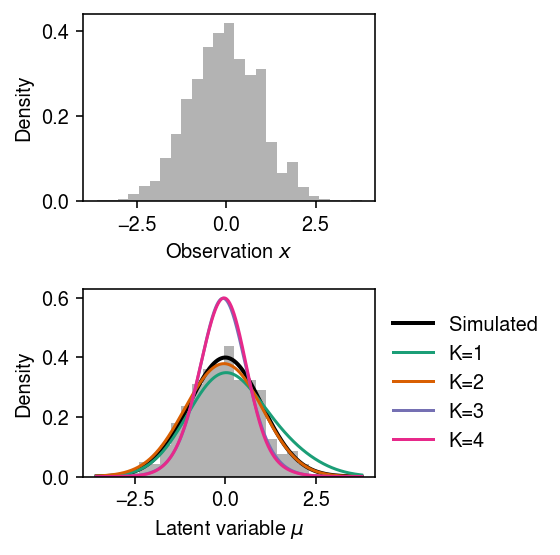
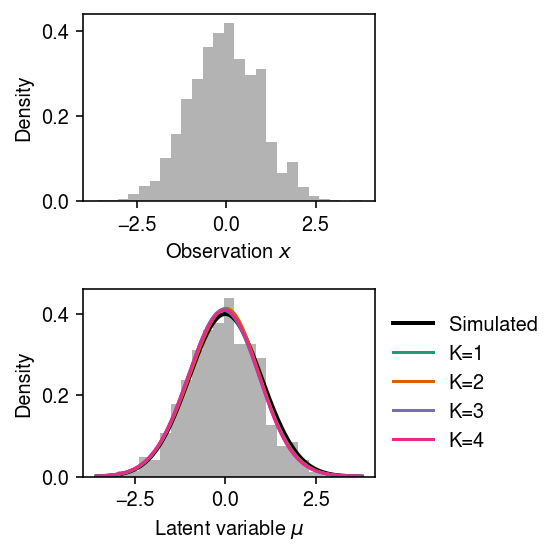
Fix EBNM-NF

diff --git a/docs/flows.html b/docs/flows.html
@@ -1,7 +1,7 @@
 <!DOCTYPE html>
 <html lang="en">
 <head>
-<!-- 2021-02-05 Fri 12:39 -->
+<!-- 2021-02-05 Fri 20:53 -->
 <meta charset="utf-8">
 <meta name="viewport" content="width=device-width, initial-scale=1">
 <title>Normalizing flows for EBPM</title>
@@ -272,6 +272,7 @@ for the JavaScript code in this tag.
 <li><a href="#org0dd86e4">Density estimation sanity check</a></li>
 <li><a href="#org2570b5c">EBNM via VBEM sanity check</a></li>
 <li><a href="#orgb9dcf4c">EBNM via flows sanity check</a></li>
+<li><a href="#orge00a64a">EBNM example</a></li>
 <li><a href="#orgd0277f9">Example of Empirical Bayes Poisson Means</a></li>
 </ul>
 </li>
@@ -613,15 +614,15 @@ discretizing \(\hat{g}\) and taking weighted sums.
   <span class="org-keyword">def</span> <span class="org-function-name">forward</span>(<span class="org-keyword">self</span>, x, n_samples):
     <span class="org-variable-name">q0</span> = torch.distributions.Normal(
       loc=x / (1 + <span class="org-keyword">self</span>.scale ** 2),
-      scale=torch.sqrt(1 / (1 + <span class="org-keyword">self</span>.scale ** 2)))
-    <span class="org-variable-name">u</span> = q0.rsample([1]).squeeze(-1)
-    <span class="org-variable-name">z</span>, <span class="org-variable-name">log_det_q</span> = <span class="org-keyword">self</span>.qz.forward(u.T)
+      scale=torch.sqrt(1 / (1 + 1 / <span class="org-keyword">self</span>.scale ** 2)))
+    <span class="org-variable-name">u</span> = q0.rsample(n_samples)
+    <span class="org-variable-name">z</span>, <span class="org-variable-name">log_det_q</span> = <span class="org-keyword">self</span>.qz.forward(u)
     <span class="org-variable-name">w</span>, <span class="org-variable-name">log_det_p</span> = <span class="org-keyword">self</span>.pz.forward(z)
     <span class="org-comment-delimiter"># </span><span class="org-comment">Important: qz is forward transforms, so we need to invert the sign of</span>
     <span class="org-comment-delimiter"># </span><span class="org-comment">log_det_q</span>
     <span class="org-variable-name">elbo</span> = (torch.distributions.Normal(z, <span class="org-keyword">self</span>.scale).log_prob(x)
             + <span class="org-keyword">self</span>.p0.log_prob(w) + log_det_p
-            - (q0.log_prob(u.T) - log_det_q)).<span class="org-builtin">sum</span>()
+            - (q0.log_prob(u) - log_det_q)).mean(dim=0).<span class="org-builtin">sum</span>()
     <span class="org-keyword">assert</span> elbo &lt;= 0
     <span class="org-keyword">return</span> -elbo
 
@@ -1090,127 +1091,50 @@ fig.tight_layout()
 <p><img src="figure/flows.org/ebnm-ex.png" alt="ebnm-ex.png">
 </p>
 </div>
+</div>
+</div>
 
+<div id="outline-container-orge00a64a" class="outline-3">
+<h3 id="orge00a64a">EBNM example</h3>
+<div class="outline-text-3" id="text-orge00a64a">
 <p>
-Plot the approximate posterior mean against the true posterior mean.
+Draw observations from a scale mixture of Gaussians prior.
 </p>
 
 <div class="org-src-container">
-<pre class="src src-ipython"><span class="org-variable-name">cm</span> = plt.get_cmap(<span class="org-string">'Dark2'</span>)
-plt.clf()
-plt.gcf().set_size_inches(2.5, 2.5)
-<span class="org-variable-name">q0</span> = st.norm(x.reshape(-1, 1) / (1 + s ** 2), np.sqrt(1 / (1 + 1 / s ** 2)))
-<span class="org-keyword">for</span> k, m <span class="org-keyword">in</span> <span class="org-builtin">enumerate</span>(models):
-  <span class="org-keyword">with</span> torch.no_grad():
-    <span class="org-variable-name">samples</span> = np.stack([m.qz.forward(torch.tensor(q0.rvs(), dtype=torch.<span class="org-builtin">float</span>))[0].numpy() <span class="org-keyword">for</span> _ <span class="org-keyword">in</span> <span class="org-builtin">range</span>(100)]).squeeze()
-    <span class="org-variable-name">muhat</span> = samples.mean(axis=0)
-  plt.scatter(q0.mean().ravel(), muhat, s=1, c=np.array(cm(k)).reshape(1, -1), label=f<span class="org-string">'K = {k+1}'</span>)
-<span class="org-variable-name">l</span> = plt.legend(frameon=<span class="org-constant">False</span>, handletextpad=0, markerscale=4)
-<span class="org-variable-name">lim</span> = [mu.<span class="org-builtin">min</span>(), mu.<span class="org-builtin">max</span>()]
-plt.plot(lim, lim, lw=1, ls=<span class="org-string">':'</span>, c=<span class="org-string">'r'</span>)
-plt.xlim(lim)
-plt.ylim(lim)
-plt.xlabel(<span class="org-string">'Exact posterior mean'</span>)
-plt.ylabel(<span class="org-string">'Approximate posterior mean'</span>)
-plt.tight_layout()
+<pre class="src src-ipython"><span class="org-variable-name">rng</span> = np.random.default_rng(1)
+<span class="org-variable-name">n</span> = 1000
+<span class="org-variable-name">s</span> = 0.05
+<span class="org-variable-name">pi</span> = np.array([0.3, 0.7])
+<span class="org-variable-name">scale</span> = np.array([0.1, 0.4])
+<span class="org-variable-name">z</span> = rng.choice(a=scale.shape[0], p=pi, size=n)
+<span class="org-variable-name">mu</span> = rng.normal(scale=scale[z], size=n)
+<span class="org-variable-name">x</span> = rng.normal(loc=mu, scale=s)
 </pre>
 </div>
 
-
-<div class="figure">
-<p><img src="figure/flows.org/ebnm-q.png" alt="ebnm-q.png">
-</p>
-</div>
-
 <p>
-Compare samples from the approximate posterior, holding \(K=2\), for the
-largest observation against the true posterior.
+Fit the model for different choices of \(K\).
 </p>
 
 <div class="org-src-container">
-<pre class="src src-ipython">plt.clf()
-plt.gcf().set_size_inches(2.5, 2.5)
-<span class="org-variable-name">idx</span> = np.argmax(mu)
-<span class="org-variable-name">q0</span> = st.norm(x[idx] / (1 + s ** 2), np.sqrt(1 / (1 + 1 / s ** 2)))
-<span class="org-variable-name">u</span> = q0.rvs(size=(500, 1))
-<span class="org-keyword">with</span> torch.no_grad():
-  <span class="org-variable-name">samples</span> = models[1].qz.forward(torch.tensor(u, dtype=torch.<span class="org-builtin">float</span>))[0].numpy()
-plt.hist(samples, bins=3, density=<span class="org-constant">True</span>, color=<span class="org-string">'0.8'</span>)
-<span class="org-variable-name">grid</span> = np.linspace(2, 4, 1000)
-plt.plot(grid, q0.pdf(grid), lw=2, c=<span class="org-string">'k'</span>)
-plt.xlabel(<span class="org-string">'Latent variable $\mu$'</span>)
-plt.ylabel(<span class="org-string">'Posterior density'</span>)
-plt.tight_layout()
-</pre>
-</div>
-
-
-<div class="figure">
-<p><img src="figure/flows.org/ebnm-q-max.png" alt="ebnm-q-max.png">
-</p>
-</div>
-
-<p>
-Look at different random initializations for \(K=4\).
-</p>
-
-<div class="org-src-container">
-<pre class="src src-ipython"><span class="org-variable-name">lr</span> = 1e-2
-<span class="org-variable-name">n_epochs</span> = 8000
-<span class="org-variable-name">models</span> = []
-<span class="org-keyword">for</span> run <span class="org-keyword">in</span> <span class="org-builtin">range</span>(5):
-  torch.manual_seed(run)
-  models.append(EBNM(K=4, scale=torch.tensor(s))
-                .fit(torch.tensor(x.reshape(-1, 1), dtype=torch.<span class="org-builtin">float</span>),
-                     n_epochs=n_epochs,
-                     lr=lr))
-</pre>
-</div>
-
-<div class="org-src-container">
-<pre class="src src-ipython"><span class="org-variable-name">cm</span> = plt.get_cmap(<span class="org-string">'Dark2'</span>)
-plt.clf()
-<span class="org-variable-name">fig</span>, <span class="org-variable-name">ax</span> = plt.subplots(2, 1)
-fig.set_size_inches(4, 4)
-ax[0].hist(x, bins=25, color=<span class="org-string">'0.7'</span>, density=<span class="org-constant">True</span>)
-ax[0].set_xlabel(<span class="org-string">'Observation $x$'</span>)
-ax[0].set_ylabel(<span class="org-string">'Density'</span>)
-
-<span class="org-variable-name">grid</span> = np.linspace(mu.<span class="org-builtin">min</span>(), mu.<span class="org-builtin">max</span>(), 1000)
-ax[1].hist(mu, bins=25, color=<span class="org-string">'0.7'</span>, density=<span class="org-constant">True</span>)
-ax[1].plot(grid, st.norm().pdf(grid), lw=2, c=<span class="org-string">'k'</span>, label=<span class="org-string">'Simulated'</span>)
-<span class="org-keyword">for</span> k, m <span class="org-keyword">in</span> <span class="org-builtin">enumerate</span>(models):
-  ax[1].plot(grid, m.fitted_g(torch.tensor(grid.reshape(-1, 1), dtype=torch.<span class="org-builtin">float</span>), log=<span class="org-constant">False</span>), c=cm(k), label=f<span class="org-string">'Run = {k + 1}'</span>)
-ax[1].legend(frameon=<span class="org-constant">False</span>, loc=<span class="org-string">'center left'</span>, bbox_to_anchor=(1, .5))
-ax[1].set_xlabel(<span class="org-string">'Latent variable $\mu$'</span>)
-ax[1].set_ylabel(<span class="org-string">'Density'</span>)
-fig.tight_layout()
-</pre>
-</div>
-
-
-<div class="figure">
-<p><img src="figure/flows.org/ebnm-k=4-init.png" alt="ebnm-k=4-init.png">
-</p>
-</div>
-
-<p>
-Look at the zero initialization.
-</p>
-
-<div class="org-src-container">
-<pre class="src src-ipython"><span class="org-variable-name">run</span> = 21
+<pre class="src src-ipython"><span class="org-variable-name">run</span> = 1
 <span class="org-variable-name">lr</span> = 1e-2
-<span class="org-variable-name">n_epochs</span> = 20000
+<span class="org-variable-name">n_epochs</span> = 5000
 torch.manual_seed(run)
-<span class="org-variable-name">models</span> = [EBNM(K=K, scale=torch.tensor(s), random_init=<span class="org-constant">False</span>)
+<span class="org-variable-name">models</span> = [EBNM(K=K, scale=torch.tensor(s))
           .fit(torch.tensor(x.reshape(-1, 1), dtype=torch.<span class="org-builtin">float</span>),
                n_epochs=n_epochs,
-               lr=lr)
+               lr=lr,
+               log_dir=f<span class="org-string">'/scratch/midway2/aksarkar/singlecell/runs/ebnm-nf-normmix-{K}-{run}-{n_epochs}'</span>)
           <span class="org-keyword">for</span> K <span class="org-keyword">in</span> <span class="org-builtin">range</span>(1, 5)]
 </pre>
 </div>
 
+<p>
+Plot the model fits against the simulated data.
+</p>
+
 <div class="org-src-container">
 <pre class="src src-ipython"><span class="org-variable-name">cm</span> = plt.get_cmap(<span class="org-string">'Dark2'</span>)
 plt.clf()
@@ -1222,9 +1146,10 @@ ax[0].set_ylabel(<span class="org-string">'Density'</span>)
 
 <span class="org-variable-name">grid</span> = np.linspace(mu.<span class="org-builtin">min</span>(), mu.<span class="org-builtin">max</span>(), 1000)
 ax[1].hist(mu, bins=25, color=<span class="org-string">'0.7'</span>, density=<span class="org-constant">True</span>)
-ax[1].plot(grid, st.norm().pdf(grid), lw=2, c=<span class="org-string">'k'</span>, label=<span class="org-string">'Simulated'</span>)
+<span class="org-variable-name">g</span> = st.norm(scale=scale).pdf(grid.reshape(-1, 1)) @ pi
+ax[1].plot(grid, g, lw=2, c=<span class="org-string">'k'</span>, label=<span class="org-string">'Simulated'</span>)
 <span class="org-keyword">for</span> k, m <span class="org-keyword">in</span> <span class="org-builtin">enumerate</span>(models):
-  ax[1].plot(grid, m.fitted_g(torch.tensor(grid.reshape(-1, 1), dtype=torch.<span class="org-builtin">float</span>), log=<span class="org-constant">False</span>), c=cm(k), label=f<span class="org-string">'K = {k + 1}'</span>)
+  ax[1].plot(grid, m.fitted_g(torch.tensor(grid.reshape(-1, 1), dtype=torch.<span class="org-builtin">float</span>), log=<span class="org-constant">False</span>), c=cm(k), label=f<span class="org-string">'K={k + 1}'</span>)
 ax[1].legend(frameon=<span class="org-constant">False</span>, loc=<span class="org-string">'center left'</span>, bbox_to_anchor=(1, .5))
 ax[1].set_xlabel(<span class="org-string">'Latent variable $\mu$'</span>)
 ax[1].set_ylabel(<span class="org-string">'Density'</span>)
@@ -1234,50 +1159,9 @@ fig.tight_layout()
 
 
 <div class="figure">
-<p><img src="figure/flows.org/ebnm-zero-init.png" alt="ebnm-zero-init.png">
+<p><img src="figure/flows.org/ebnm-normmix-ex.png" alt="ebnm-normmix-ex.png">
 </p>
 </div>
-
-<p>
-Compute the analytic ELBO (where \(q\) equals the true posterior).
-</p>
-
-<div class="org-src-container">
-<pre class="src src-ipython"><span class="org-variable-name">q0</span> = st.norm(x / (1 + s ** 2), np.sqrt(1 / (1 + 1 / s ** 2)))
-<span class="org-variable-name">elbo0</span> = -.5 * (np.log(2 * np.pi * s ** 2) +
-               (np.linalg.norm(x - q0.mean()) - q0.var()) / s ** 2 +
-               (1 - 2 * np.log(q0.var()) + (q0.mean() ** 2 + q0.var()))).<span class="org-builtin">sum</span>()
-elbo0
-</pre>
-</div>
-
-<pre class="example">
--20041.20645325556
-
-</pre>
-
-<p>
-Look at the stochastic estimate of the ELBO for each model.
-</p>
-
-<div class="org-src-container">
-<pre class="src src-ipython">torch.manual_seed(100)
-<span class="org-keyword">with</span> torch.no_grad():
-  <span class="org-variable-name">elbos</span> = pd.Series({
-    k + 1: np.stack([-m.forward(torch.tensor(x.reshape(-1, 1), dtype=torch.<span class="org-builtin">float</span>), [1]).numpy()
-                     <span class="org-keyword">for</span> _ <span class="org-keyword">in</span> <span class="org-builtin">range</span>(10)]).mean()
-    <span class="org-keyword">for</span> k, m <span class="org-keyword">in</span> <span class="org-builtin">enumerate</span>(models)})
-elbos
-</pre>
-</div>
-
-<pre class="example">
-1   -161365.531250
-2   -153420.906250
-3   -101058.085938
-4    -98015.765625
-dtype: float64
-</pre>
 </div>
 </div>
 
@@ -1373,7 +1257,7 @@ torch.manual_seed(run)
 </div>
 <div id="postamble" class="status">
 <p class="author">Author: Abhishek Sarkar</p>
-<p class="date">Created: 2021-02-05 Fri 12:39</p>
+<p class="date">Created: 2021-02-05 Fri 20:53</p>
 <p class="validation"><a href="http://validator.w3.org/check?uri=referer">Validate</a></p>
 </div>
 </body>
